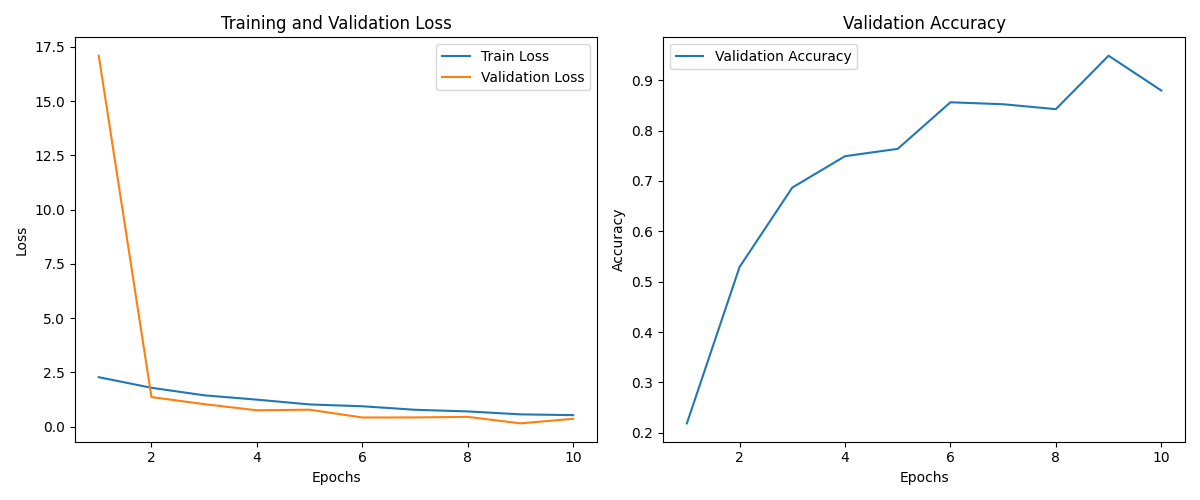
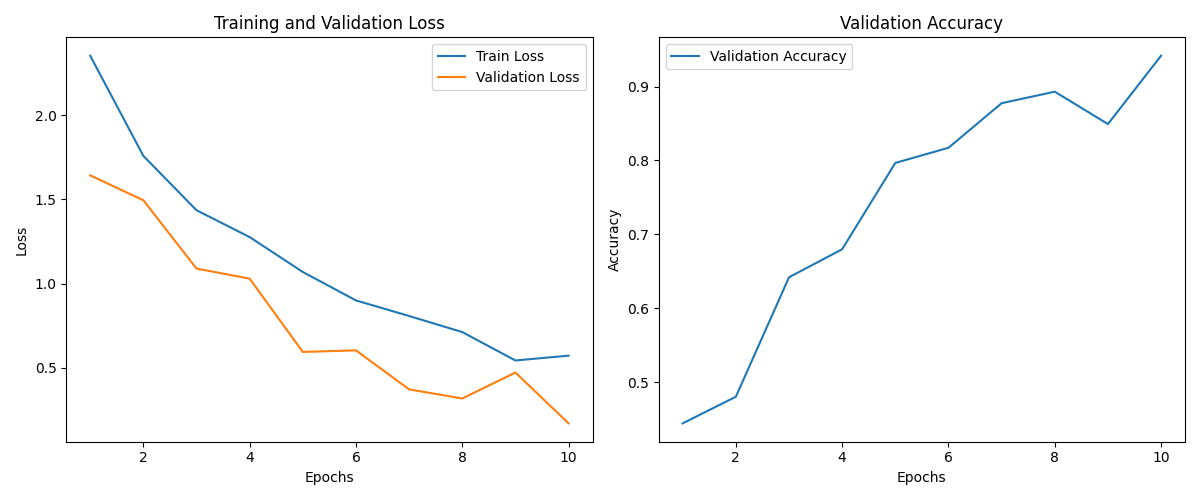
f1 oral.py

diff --git a/DL_oral_paper/oral_classification.py b/DL_oral_paper/oral_classification.py
@@ -27,9 +27,17 @@ initial_transforms = transforms.Compose([
     transforms.ToTensor()
 ])
 
+# Some Hyperparameters
+loader_batch_size = 16
+num_workers = 0
+learning_rate = 0.001
+num_epochs = 10
+patience = 3
+
 # Load the training dataset with the initial transforms
 train_dataset = ImageFolder(root=train_dir, transform=initial_transforms)
-train_loader = DataLoader(train_dataset, batch_size=64, shuffle=False, num_workers=4)
+train_loader = DataLoader(train_dataset, batch_size=loader_batch_size,
+                          shuffle=False, num_workers=num_workers)
 
 # Function to calculate mean and std through my GPU
 def calculate_mean_std(loader, device):
@@ -89,12 +97,6 @@ val_test_transforms = transforms.Compose([
     transforms.Normalize(mean=mean, std=std),
 ])
 
-# Some Hyperparameters
-loader_batch_size = 16
-num_workers = 0
-learning_rate = 0.001
-num_epochs = 10
-
 # Loading datasets => transformers
 train_dataset = ImageFolder(root=train_dir, transform=train_transforms)
 val_dataset = ImageFolder(root=val_dir, transform=val_test_transforms)
@@ -121,6 +123,8 @@ optimizer = optim.Adam(model.parameters(), lr=learning_rate)
 train_losses = []
 val_losses = []
 val_accuracies = []
+best_val_loss = float('inf')
+early_stopping_counter = 0
 
 # Training loop
 for epoch in range(num_epochs):
@@ -169,7 +173,38 @@ for epoch in range(num_epochs):
     val_accuracies.append(val_acc.item())  # Save validation accuracy
     print(f"Validation Loss: {val_loss:.4f}, Accuracy: {val_acc:.4f}")
 
+    # Early Stopping Check
+    if val_loss < best_val_loss:
+        best_val_loss = val_loss
+        early_stopping_counter = 0
+        best_model_wts = model.state_dict()
+        torch.save(best_model_wts, 'best_oral_inception_model.pth')
+    else:
+        early_stopping_counter += 1
+        if early_stopping_counter >= patience:
+            print("Early stopping triggered!")
+            model.load_state_dict(best_model_wts)  # Load best weights
+            break
+
 print("Training complete")
+
+# Test phase
+model.eval()
+test_loss = 0.0
+corrects = 0
+
+with torch.no_grad():
+    for inputs, labels in test_loader:
+        inputs, labels = inputs.to(device), labels.to(device)
+        outputs = model(inputs)
+        loss = loss_func(outputs, labels)
+        test_loss += loss.item() * inputs.size(0)
+        _, preds = torch.max(outputs, 1)
+        corrects += torch.sum(preds == labels.data)
+
+test_loss = test_loss / len(test_loader.dataset)
+test_acc = corrects.double() / len(test_loader.dataset)
+print(f"Test Loss: {test_loss:.4f}, Accuracy: {test_acc:.4f}")
 
 # Plot the training and validation loss
 plt.figure(figsize=(12, 5))
